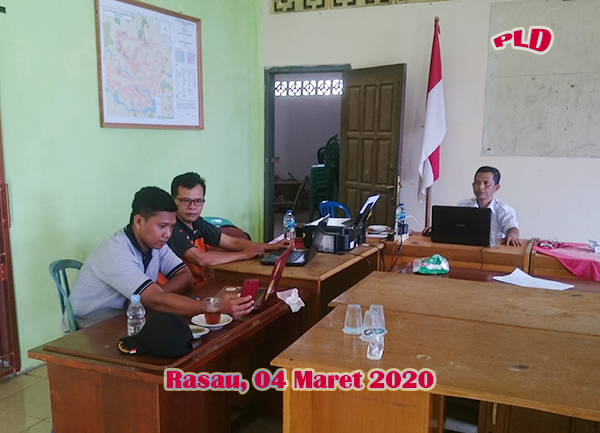
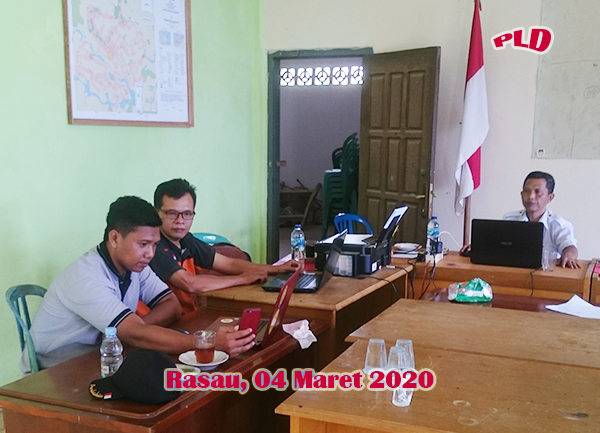
tambahkan 2 foto rakor sarolangun

diff --git a/index.html b/index.html
@@ -323,6 +323,16 @@
             <img src="img/foto2020/22.png" title="Review APBDes 2020 merujuk  Perbup No. 3 dan 4 th 2020">
           </a>
         </div>
+        <div class="col-sm-4">
+          <a href="" class="thumbnail">
+            <img src="img/foto2020/23.png" title="Rakor TPP-PLD Kab. Merangin & Sarolangun">
+          </a>
+        </div>
+        <div class="col-sm-4">
+          <a href="" class="thumbnail">
+            <img src="img/foto2020/24.png" title="Rakor TPP-PLD Kab. Merangin & Sarolangun">
+          </a>
+        </div>
       </div>
   </section>
   <!-- akhir foto2020 -->
